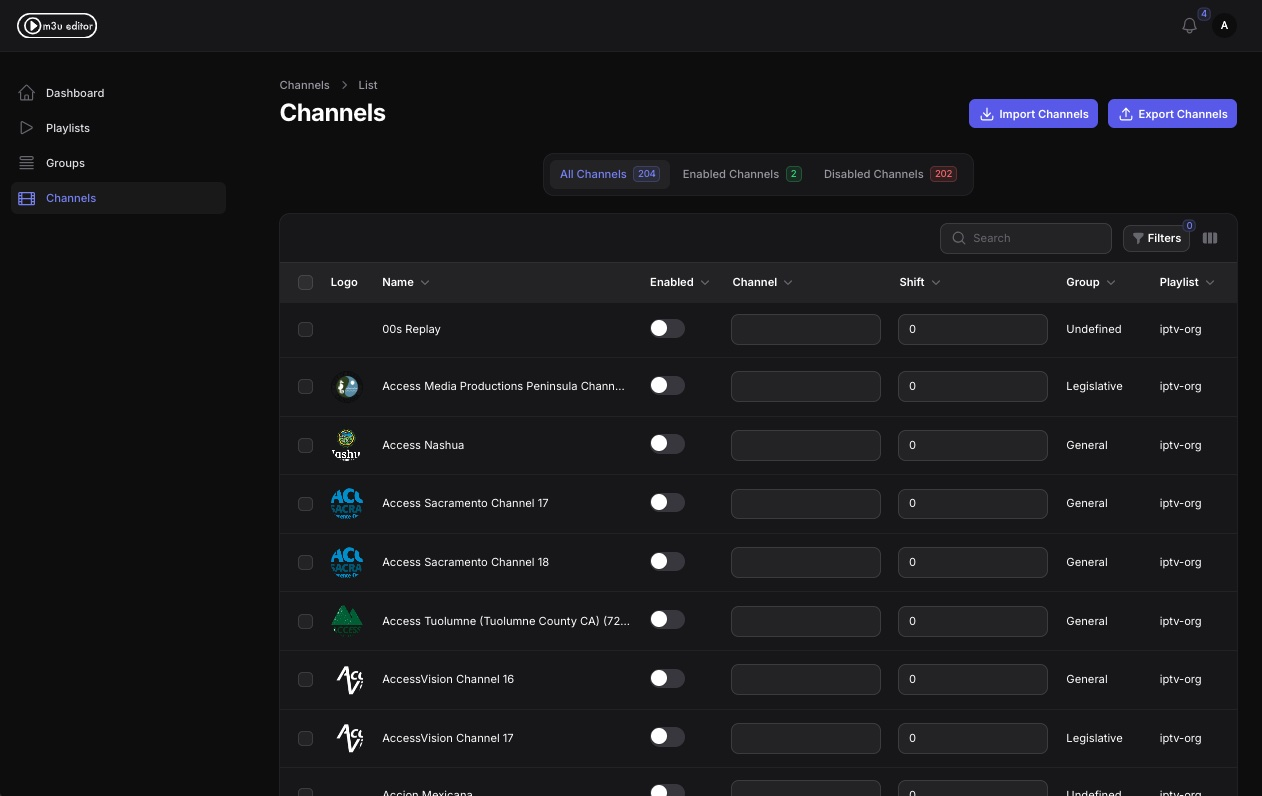
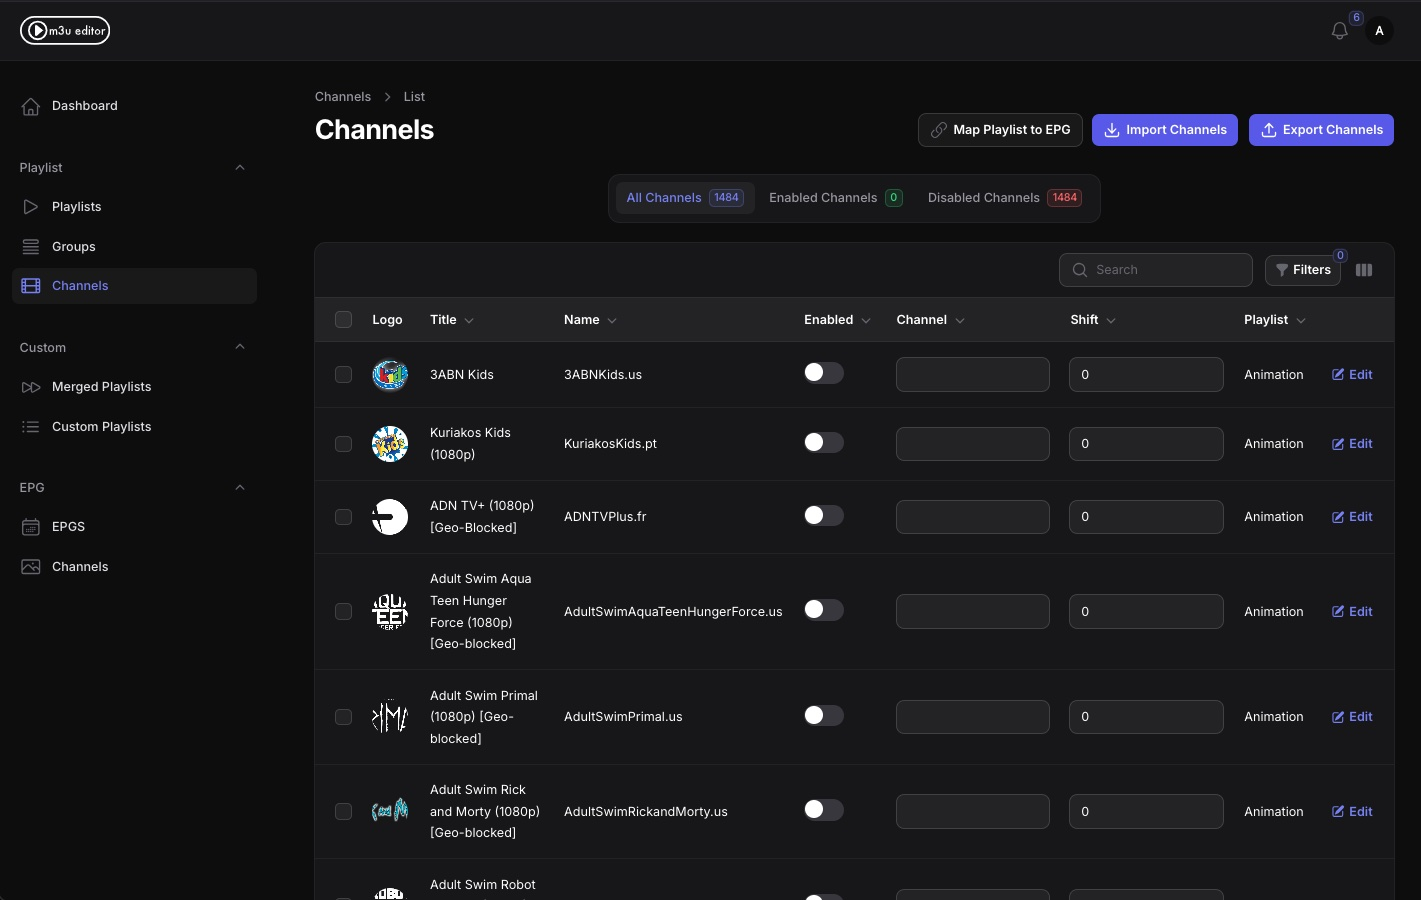
Update screens, fix epg create

diff --git a/app/Filament/Resources/EpgResource.php b/app/Filament/Resources/EpgResource.php
@@ -221,7 +221,7 @@ class EpgResource extends Resource
                         ->rules(['file'])
                         ->requiredIf('url', [null, ''])
                         ->helperText('Upload the XMLTV file for the EPG. This will be used to import the guide data.'),
-                ])->hiddenOn(['create'])
+                ])
         ];
     }
 }

diff --git a/README.md b/README.md
@@ -1,31 +1,40 @@
 # m3u editor
 
-A simple `m3u` playlist editor, similar to **xteve** or **threadfin**. 
-As of now, there are no plans for EPG integration, but if there's enough interest this can be looked into.
+A simple `m3u` playlist editor, similar to **xteve** or **threadfin**, with `epg` management.
 
 > [!TIP]  
-> Has been tested on large playlist ([https://github.com/iptv-org/iptv](https://github.com/iptv-org/iptv)), with up to 10000+ channels. Note that larger lists will take longer to sync (likely a minute or two for every ~10k channels).
-
-> [!NOTE]  
-> Ability to merge playlists is not currently available, but could be fairly easily added if there are enough requests for this feature.
+> Has been tested on large playlist ([https://github.com/iptv-org/iptv](https://github.com/iptv-org/iptv)), with up to 10000+ channels. Note that larger lists will take longer to sync (likely a closer to a minute for every ~10k channels, depending on the list. Some import quicker than others.).
 
 ## How It Works
+
 1. Initialization and M3U Playlist(s) creation:
     - The service loads M3U playlist from specified URL, downloading and processing it.
     - Each playlist will have a unique URL to output enabled channels and any customizations
     - Only enabled channels will be returned.
-2. Automatic playlist(s) sync:
-    - Playlist sync happens upon creation, and every 24hr after. The schedule can be adjusted after playlist is created.
-3. HTTP endpoints:
+2. Initialization and XML EPG(s) creation:
+    - The service loads EPG from specified URL, or from the uploaded file, downloading and processing it. File should conform to the [XMLTV standard](https://github.com/XMLTV/xmltv/blob/master/xmltv.dtd).
+    - Each playlist will have a unique URL to output enabled channels EPG data
+    - Only enabled channels, that have been mapped to an EPG, will be returned.
+3. Automatic playlist(s) and epg(s) syncing:
+    - Playlist and EPG syncs happens upon creation, and every 24hr after. The schedule can be adjusted after playlist is created. Auto sync can also be disabled to prevent this (an initial sync will still happen upon creation).
+4. (Optionally) custom and merged playlists can be created:
+    - Merged playlists will allow you to create a new playlist from existing playslist, allowing you to combine multiple playlists into one.
+    - Custom playlists allow you to select specific channels from existing playslist to compose a new playlist.
+5. HTTP endpoints:
     - The app can be accessed here: [http://localhost:36400](http://localhost:36400)
       - **LOGIN INFO**: user = admin, password = admin
     - Each playlist will have a unique URL, in the format: `http://localhost:36400/9dfbc010-a809-4a31-801d-ca2a34030966/playlist.m3u`
-4. Customization:
-    - Modify M3U channel numbers and offset. Channels are opt-in, so **all channels will be disabled by default** and need to be enabled based on your preference. This is to prevent channel additions automatically populating your playlist.
+    - Each playlist will also have a unique EPG URL, in a similar format: `http://localhost:36400/9dfbc010-a809-4a31-801d-ca2a34030966/epg.xml`
+      - **NOTE** Only enabled channels that have been mapped to an EPG will be included.
+6. Customization:
+    - Enable/disable auto syncing of Playlists and EPGs.
+    - Modify M3U channel numbers, logos, and offset. Channels are opt-in, so **all channels will be disabled by default** and need to be enabled based on your preference. This is to prevent channel additions automatically populating your playlist.
 
 ## Prerequisites
+
 - [Docker](https://www.docker.com/) installed on your system.
 - M3U URLs containing a playlist of video streams.
+- (Optionally) EPG URLs/files containing valid XMLTV data.
 
 ## Screenshots
 
